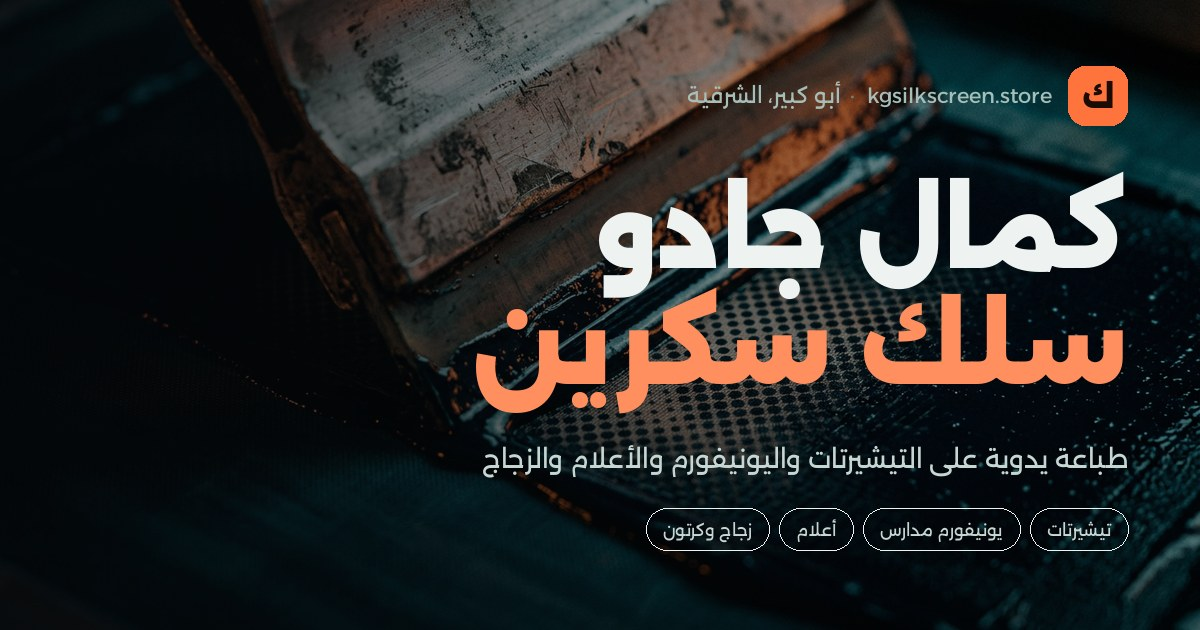
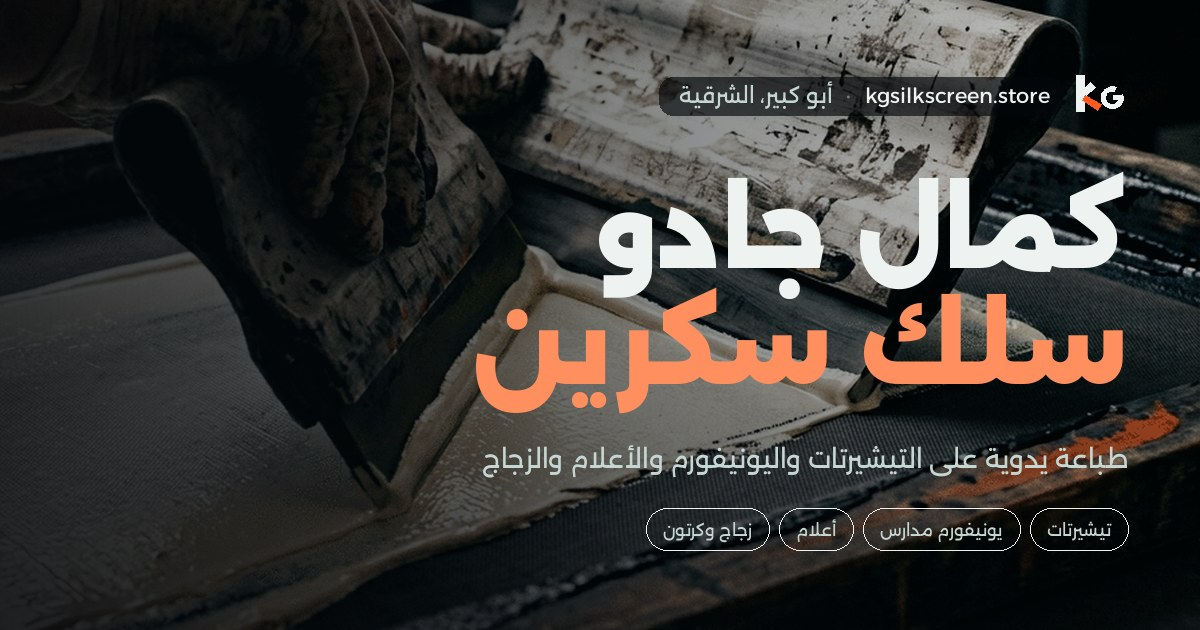
fix(og): render the real mark and give the venue line a readable plate
Two defects in the social card:
  · it still drew the pre-identity «ك» tile; it now composites the actual K/G
    mark from the same committed SVG the site uses, so the card can never drift
    from the favicon
  · the venue/domain line sat on the brightest part of the photograph and was
    invisible at thumbnail size — it now gets a soft dark pill, the same
    scrim-under-type decision the hero makes

Also removed the dead Text.draw() stub that raised NotImplementedError, and
pointed the card at the new slide-1 photography.

diff --git a/scripts/og-image.py b/scripts/og-image.py
@@ -23,7 +23,8 @@ FONT900 = os.path.join(ROOT, "public/assets/fonts/alexandria-arabic-900-normal.t
 FONT700 = os.path.join(ROOT, "public/assets/fonts/alexandria-arabic-700-normal.ttf")
 FONT400 = os.path.join(ROOT, "public/assets/fonts/alexandria-arabic-400-normal.ttf")
 FONT400_LAT = os.path.join(ROOT, "public/assets/fonts/alexandria-latin-400-normal.ttf")
-SRC = os.path.join(ROOT, "assets-src/img/hero-ink.png")
+MARK_SVG = os.path.join(ROOT, "assets-src", "logo", "mark.svg")
+SRC = os.path.join(ROOT, "assets-src/img/slide-1-pull.png")
 OUT = os.path.join(ROOT, "public/assets/img/og.jpg")
 
 W, H = 1200, 630
@@ -34,7 +35,13 @@ INK = (4, 7, 10)
 
 
 class Text:
-    """A shaped, measurable Arabic/English run."""
+    """A shaped, measurable Arabic/English run.
+
+    This class only *measures* and shapes; rasterisation lives in
+    draw_shaped() below, which takes one of these and paints it. (An earlier
+    Text.draw() stub raised NotImplementedError because it never learned to
+    cache glyph bitmaps — it has been removed rather than left as a trap.)
+    """
 
     def __init__(self, font_path, size):
         self.size = size
@@ -58,10 +65,34 @@ class Text:
         infos, pos = self.shape(text)
         return sum(p.x_advance for p in pos) * self.scale, self.size
 
-    def draw(self, img, x_right, baseline):
-        """Draw right-aligned at x_right. Glyph outline cached as bitmaps."""
-        infos, pos = self.shape("".join([]))  # placeholder to keep API symmetric
-        raise NotImplementedError
+
+
+def mark_image(svg_path, size):
+    """Rasterise the brand mark SVG to an RGBA tile at `size` px.
+
+    Reuses the project's own flattener (scripts/svgflat.py) instead of a second
+    renderer, so the OG card and the favicon can never disagree about the logo.
+    """
+    import re as _re
+    import sys as _sys
+
+    _sys.path.insert(0, os.path.dirname(os.path.abspath(__file__)))
+    from svgflat import flatten
+
+    doc = open(svg_path, encoding="utf-8").read()
+    vb = _re.search(r'viewBox="0 0 ([\d.]+) ([\d.]+)"', doc)
+    vw = float(vb.group(1)) if vb else 48.0
+    sc = size / vw
+    img = Image.new("RGBA", (size, size), (0, 0, 0, 0))
+    d = ImageDraw.Draw(img, "RGBA")
+    for m in _re.finditer(r'<path d="([^"]+)" fill="([^"]+)"', doc):
+        dm, fm = m.group(1), m.group(2)
+        h = fm.lstrip("#")
+        col = tuple(int(h[i:i + 2], 16) for i in (0, 2, 4)) + (255,)
+        for poly in flatten(dm, steps=20, scale=sc, ox=0, oy=0, flip=1):
+            if len(poly) >= 3:
+                d.polygon(poly, fill=col)
+    return img
 
 
 def shaped_runs(text_obj, text):
@@ -136,24 +167,38 @@ def main():
         dv.line([(0, y), (W, y)], fill=(2, 4, 6, a))
     bg = Image.alpha_composite(bg, vig)
 
-    # ---- logo tile ----
+    # ---- brand mark: the real K/G logo, not a letter in a coloured tile ----
+    # The tile was a stand-in from before the identity existed. The actual mark
+    # is two-tone filled geometry, so it is rendered from the same SVG the site
+    # ships and composited directly on the photograph.
     PAD = 72
     RIGHT = W - PAD
-    tile = Image.new("RGBA", (60, 60), (0, 0, 0, 0))
-    ImageDraw.Draw(tile).rounded_rectangle([0, 0, 59, 59], 17, fill=(255, 116, 60, 255))
-    bg.alpha_composite(tile, (RIGHT - 60, 66))
+    bg.alpha_composite(mark_image(MARK_SVG, 64), (RIGHT - 64, 62))
 
-    f_logo = Text(FONT900, 30)
-    k_w = sum(p.x_advance for p in f_logo.shape("ك")[1]) * f_logo.scale
-    draw_shaped(bg, f_logo, "ك", RIGHT - 30 + k_w / 2, 66 + 42, (26, 11, 4, 255))
-
-    # the font is subset per script, so Latin and Arabic are drawn as two runs
+    # ---- venue + domain line -------------------------------------------
+    # Measured problem: this line sat on the brightest part of the photograph
+    # and was effectively invisible at thumbnail size. Dim type over a bright,
+    # busy background always loses, so it gets its own dark plate — the same
+    # decision the hero uses (a gradient scrim under the copy), applied here as
+    # a soft pill so it reads as intentional rather than a band-aid.
     f_brand_lat = Text(FONT400_LAT, 21)
     f_brand_ar = Text(FONT400, 22)
-    lat_w = draw_shaped(bg, f_brand_lat, "kgsilkscreen.store", RIGHT - 76, 66 + 37, DIM)
     sep = Text(FONT400_LAT, 21)
-    sep_w = draw_shaped(bg, sep, "·", RIGHT - 76 - lat_w - 12, 66 + 37, (110, 130, 126, 255))
-    draw_shaped(bg, f_brand_ar, "أبو كبير، الشرقية", RIGHT - 76 - lat_w - sep_w - 22, 66 + 37, DIM)
+
+    lat_w = f_brand_lat.measure("kgsilkscreen.store")[0]
+    sep_w = sep.measure("·")[0]
+    ar_w = f_brand_ar.measure("أبو كبير، الشرقية")[0]
+    line_w = lat_w + 14 + sep_w + 14 + ar_w
+    line_right = RIGHT - 78
+    line_y = 66 + 37           # baseline
+    plate = [line_right - line_w - 20, line_y - 26, line_right + 12, line_y + 12]
+    glaze = Image.new("RGBA", bg.size, (0, 0, 0, 0))
+    ImageDraw.Draw(glaze).rounded_rectangle(plate, 14, fill=(4, 7, 10, 168))
+    bg = Image.alpha_composite(bg, glaze)
+
+    draw_shaped(bg, f_brand_lat, "kgsilkscreen.store", line_right, line_y, PAPER)
+    draw_shaped(bg, sep, "·", line_right - lat_w - 14, line_y, (110, 130, 126, 255))
+    draw_shaped(bg, f_brand_ar, "أبو كبير، الشرقية", line_right - lat_w - sep_w - 28, line_y, (198, 214, 210, 255))
 
     # ---- headline ----
     f_h1 = Text(FONT900, 100)
